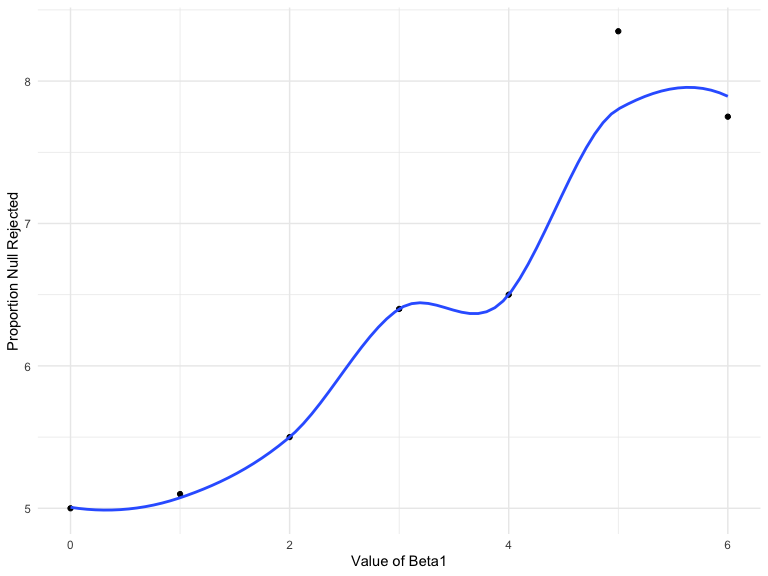
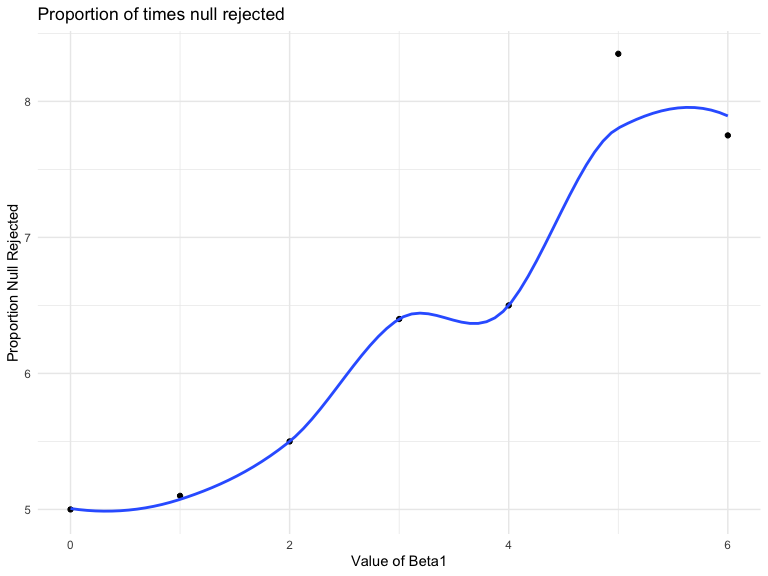
Code for HW5 with answers to questions

diff --git a/p8105_hw5_md3851.md b/p8105_hw5_md3851.md
@@ -313,7 +313,7 @@ study_data %>%
   facet_grid(~arm)
 ```
 
-<img src="p8105_hw5_md3851_files/figure-markdown_github/unnamed-chunk-3-1.png" width="90%" />
+<img src="p8105_hw5_md3851_files/figure-markdown_github/unnamed-chunk-3-1.png" width="90%" /> The plot above shows weekly observations for each participant by study group (control vs experimental). On average, the observations are higher in the experimental group compared to the control group. However, in both groups, there is a lot of variations at two levels: 1) between individuals and 2) for each individual from one week to another.
 
 Problem 3
 ---------
@@ -350,7 +350,7 @@ sim_results %>%
 ggplot(aes(x = beta1, y = prop_sig)) + 
   geom_point() + 
   geom_smooth(se = FALSE) + 
-  labs(x = "Value of Beta1", y = "Proportion Null Rejected")
+  labs(x = "Value of Beta1", y = "Proportion Null Rejected", title = "Proportion of times null rejected")
 
 fig_1
 ```
@@ -359,31 +359,37 @@ fig_1
 
 <img src="p8105_hw5_md3851_files/figure-markdown_github/unnamed-chunk-5-1.png" width="90%" />
 
+The plot above shows that the association between effect size (Beta1) is overall positively associated with power (proportion of times the null was rejected). However, this relationship is not linear.
+
 ``` r
 fig_2 = 
   sim_results %>%
+  group_by(beta1) %>%
   mutate(average_estimate = mean(estimate)) %>%
   ggplot(aes(x = beta1, y = average_estimate)) + 
   geom_point() + 
   geom_line() + 
-  labs(x = "Beta1", y = "Mean Estimate Beta1")
+  labs(x = "Beta1", y = "Mean Estimate Beta1", title = "Avg estimate Beta1 vs. Beta1")
 
 fig_2
 ```
 
-<img src="p8105_hw5_md3851_files/figure-markdown_github/unnamed-chunk-5-2.png" width="90%" />
+<img src="p8105_hw5_md3851_files/figure-markdown_github/unnamed-chunk-6-1.png" width="90%" />
 
 ``` r
 fig_3 = 
   sim_results %>%
   filter(p.value < .05) %>%
+  group_by(beta1) %>%
   mutate(average_estimate = mean(estimate)) %>%
   ggplot(aes(x = beta1, y = average_estimate)) + 
   geom_point() + 
   geom_line() + 
-  labs(x = "Beta1", y = "Mean Estimate Beta1 When Null Is Rejected")
+  labs(x = "Beta1", y = "Mean Estimate Beta1", title = "Avg estimate Beta1 in significant samples")
 
 fig_3
 ```
 
-<img src="p8105_hw5_md3851_files/figure-markdown_github/unnamed-chunk-5-3.png" width="90%" />
+<img src="p8105_hw5_md3851_files/figure-markdown_github/unnamed-chunk-7-1.png" width="90%" />
+
+The average estimated Beta 1 does not approximate the true Beta1 for tests in which the null was rejected. This is because the cases in which the null was rejected are those that are significantly different from the truth (i.e. the true B1). The significant tests tend to overestimate the true beta1. For higher true values of Beta1, the mean estimated Beta1 values that have p values &lt; 0.05 are farther away from 0 and drive the difference between the overall average estimate and significant average estimate.
